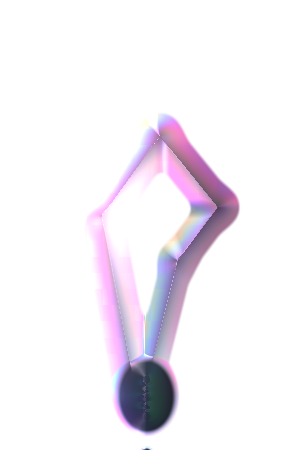
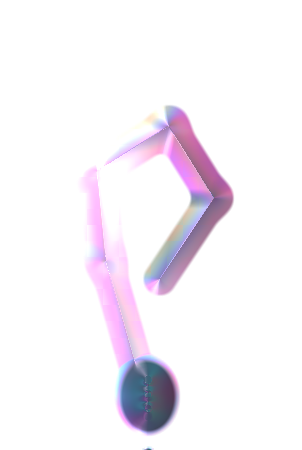
feat(glyph-qa): cursive script p loop, interior iridescence

Changed region(s): [[0.2682, 0.2178, 0.8046, 0.9644], [0.447, 0.9956, 0.5066, 1.0]]

diff --git a/src/shade/shaders.ts b/src/shade/shaders.ts
@@ -81,18 +81,18 @@ float glyphChromeSansP(vec2 p) {
   return body;
 }
 
-/** Molten script p (ENj9B ".pro" — fluid loop + descender). */
+/** Molten script p (ENj9B ".pro" — cursive loop + descender). */
 float glyphScriptProP(vec2 p) {
-  vec2 q = p * 1.01;
-  float up = sdCapsule(q, vec2(-0.04, -0.35), vec2(-0.11, 0.02), 0.046);
-  float arch = sdCapsule(q, vec2(-0.11, 0.02), vec2(0.02, 0.20), 0.044);
-  float loop = sdCapsule(q, vec2(0.02, 0.20), vec2(0.15, 0.04), 0.042);
-  float join = sdCapsule(q, vec2(0.15, 0.04), vec2(0.06, -0.08), 0.04);
-  float desc = sdCapsule(q, vec2(0.06, -0.08), vec2(-0.01, -0.36), 0.036);
-  float g = softMin(up, arch, 0.032);
-  g = softMin(g, loop, 0.03);
-  g = softMin(g, join, 0.028);
-  g = softMin(g, desc, 0.026);
+  vec2 q = p * 1.0;
+  float desc = sdCapsule(q, vec2(-0.02, -0.36), vec2(-0.10, -0.08), 0.038);
+  float left = sdCapsule(q, vec2(-0.10, -0.08), vec2(-0.12, 0.12), 0.042);
+  float top = sdCapsule(q, vec2(-0.12, 0.12), vec2(0.04, 0.22), 0.04);
+  float right = sdCapsule(q, vec2(0.04, 0.22), vec2(0.14, 0.06), 0.038);
+  float close = sdCapsule(q, vec2(0.14, 0.06), vec2(0.02, -0.12), 0.036);
+  float g = softMin(desc, left, 0.03);
+  g = softMin(g, top, 0.028);
+  g = softMin(g, right, 0.026);
+  g = softMin(g, close, 0.024);
   return g;
 }
 
@@ -279,7 +279,7 @@ void main() {
     color = mix(color, env, mix(0.22, 0.62, 1.0 - interior) * 0.9);
     // Concept-art vertical softbox stripe (1c6PD / Z53Ve)
     float bar = smoothstep(0.32, 0.0, abs(p.x + 0.16)) * smoothstep(-0.55, 0.42, p.y);
-    color += vec3(1.0) * bar * 0.72 * u_lightIntensity * mix(0.35, 1.0, edge);
+    color += vec3(1.0) * bar * 0.52 * u_lightIntensity * mix(0.35, 1.0, edge);
     if (u_glyphId > 0.5) {
       vec3 magenta = vec3(1.18, 0.52, 0.92);
       color = mix(color, color * magenta, 0.32 + 0.28 * edge);
@@ -294,7 +294,7 @@ void main() {
   if (film > 0.001) {
     float thick = film * (0.55 + 0.45 * edge + 0.2 * u_liquify * hash21(floor(p * 28.0)));
     float filmStr = film * (0.3 + 0.45 * edge) * (0.5 + 0.5 * ndotl * u_lightIntensity);
-    if (u_fieldMode > 0.5) filmStr *= mix(0.55, 1.0, edge);
+    if (u_fieldMode > 0.5) filmStr *= mix(0.72, 1.0, edge);
     vec3 filmTint = thinFilm(thick, ndotv, ndotl, filmStr);
     color *= filmTint;
     color += (filmTint - 0.5) * film * fres * 0.28 * u_lightIntensity;
@@ -320,6 +320,9 @@ void main() {
       float dripLift = smoothstep(-0.06, -0.42, p.y) * edge;
       color += refracted * dripLift * 0.45;
       color += fire * dripLift * 0.22;
+    }
+    if (u_fieldMode > 0.5) {
+      color += fire * (1.0 - edge) * 0.16; // interior iridescence
     }
   }
 

diff --git a/src/field/GlyphProfiles.ts b/src/field/GlyphProfiles.ts
@@ -47,7 +47,7 @@ const chromeEmitters: DripEmitterSpec[] = [
 
 const scriptEmitters: DripEmitterSpec[] = [
   {
-    x: -0.03,
+    x: -0.02,
     intensity: 1,
     viscosity: 0.9,
     phaseOffset: 0.1,
@@ -57,7 +57,7 @@ const scriptEmitters: DripEmitterSpec[] = [
     stretchT: 0.8,
   },
   {
-    x: -0.03,
+    x: -0.02,
     intensity: 0.65,
     viscosity: 0.7,
     phaseOffset: 0.55,